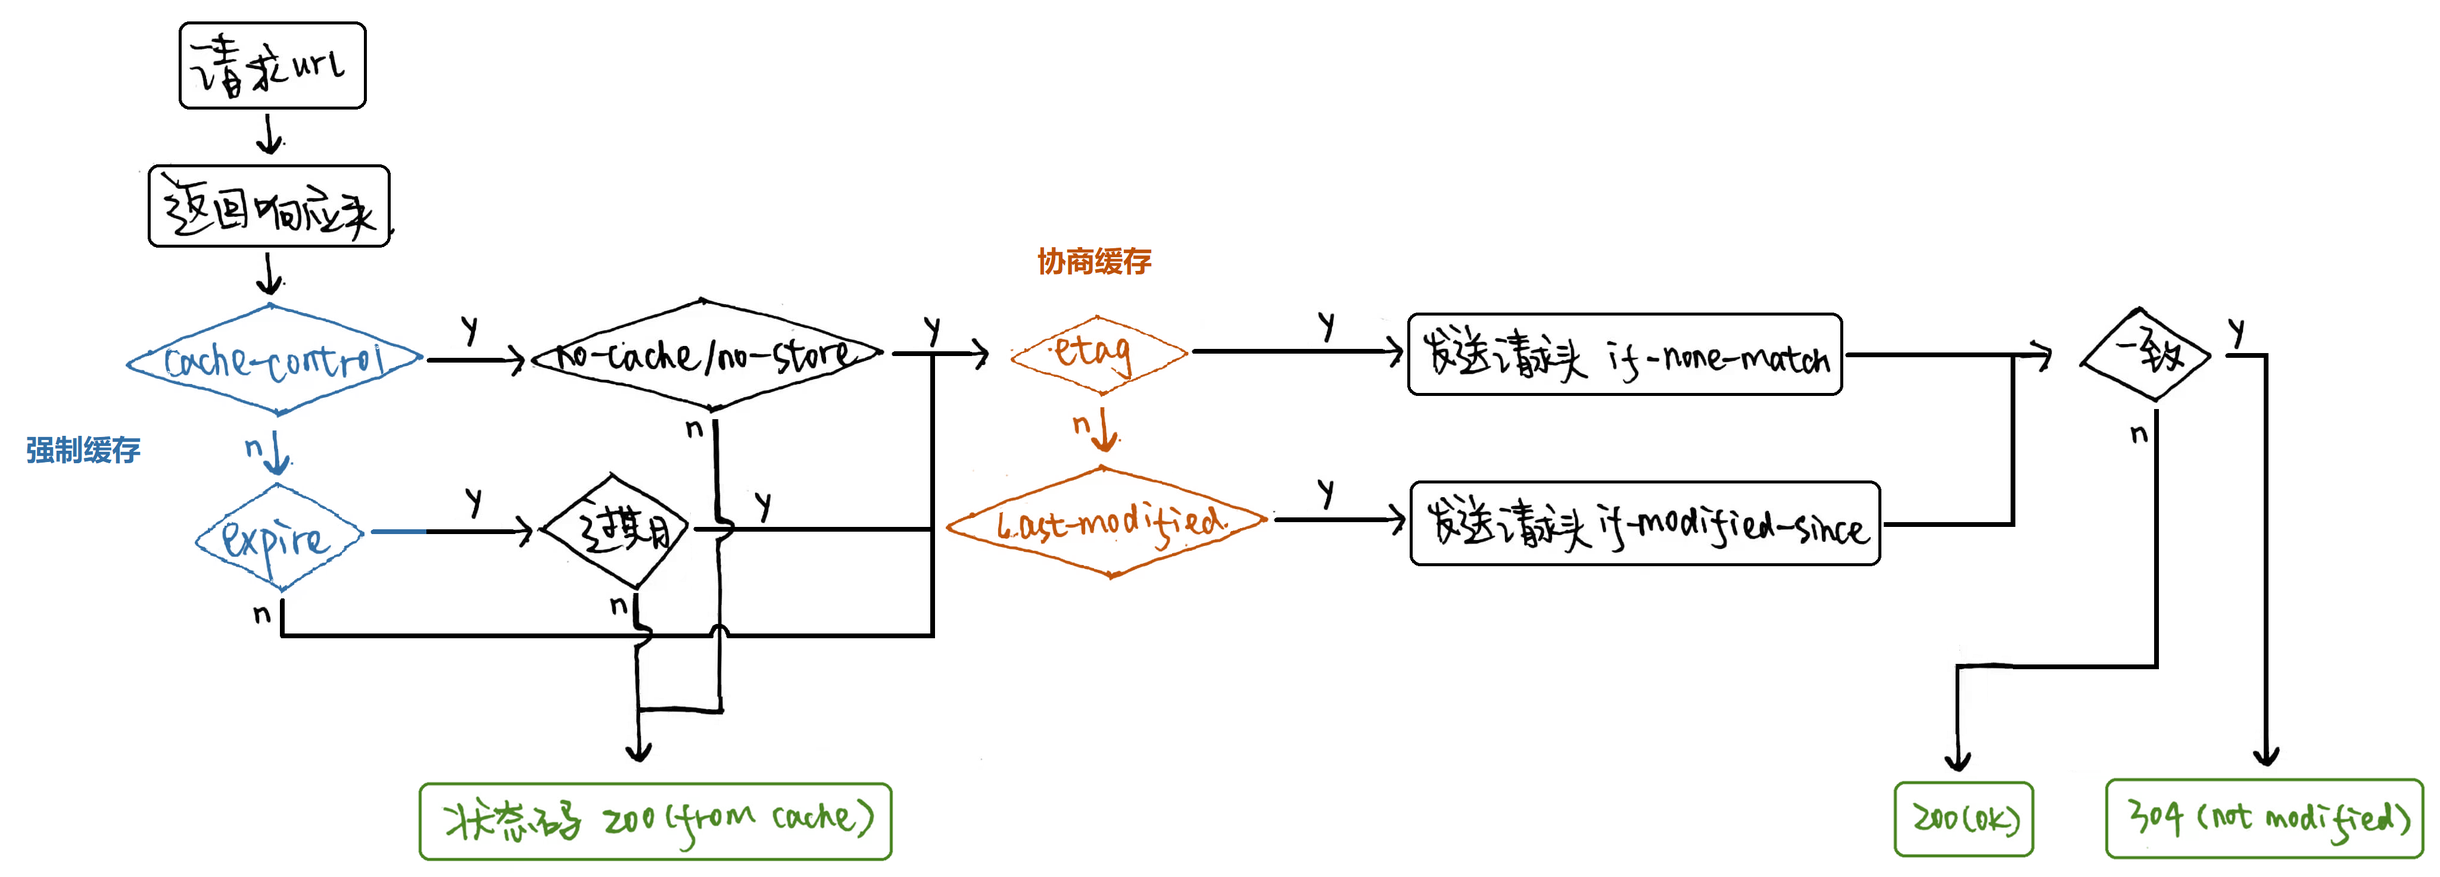
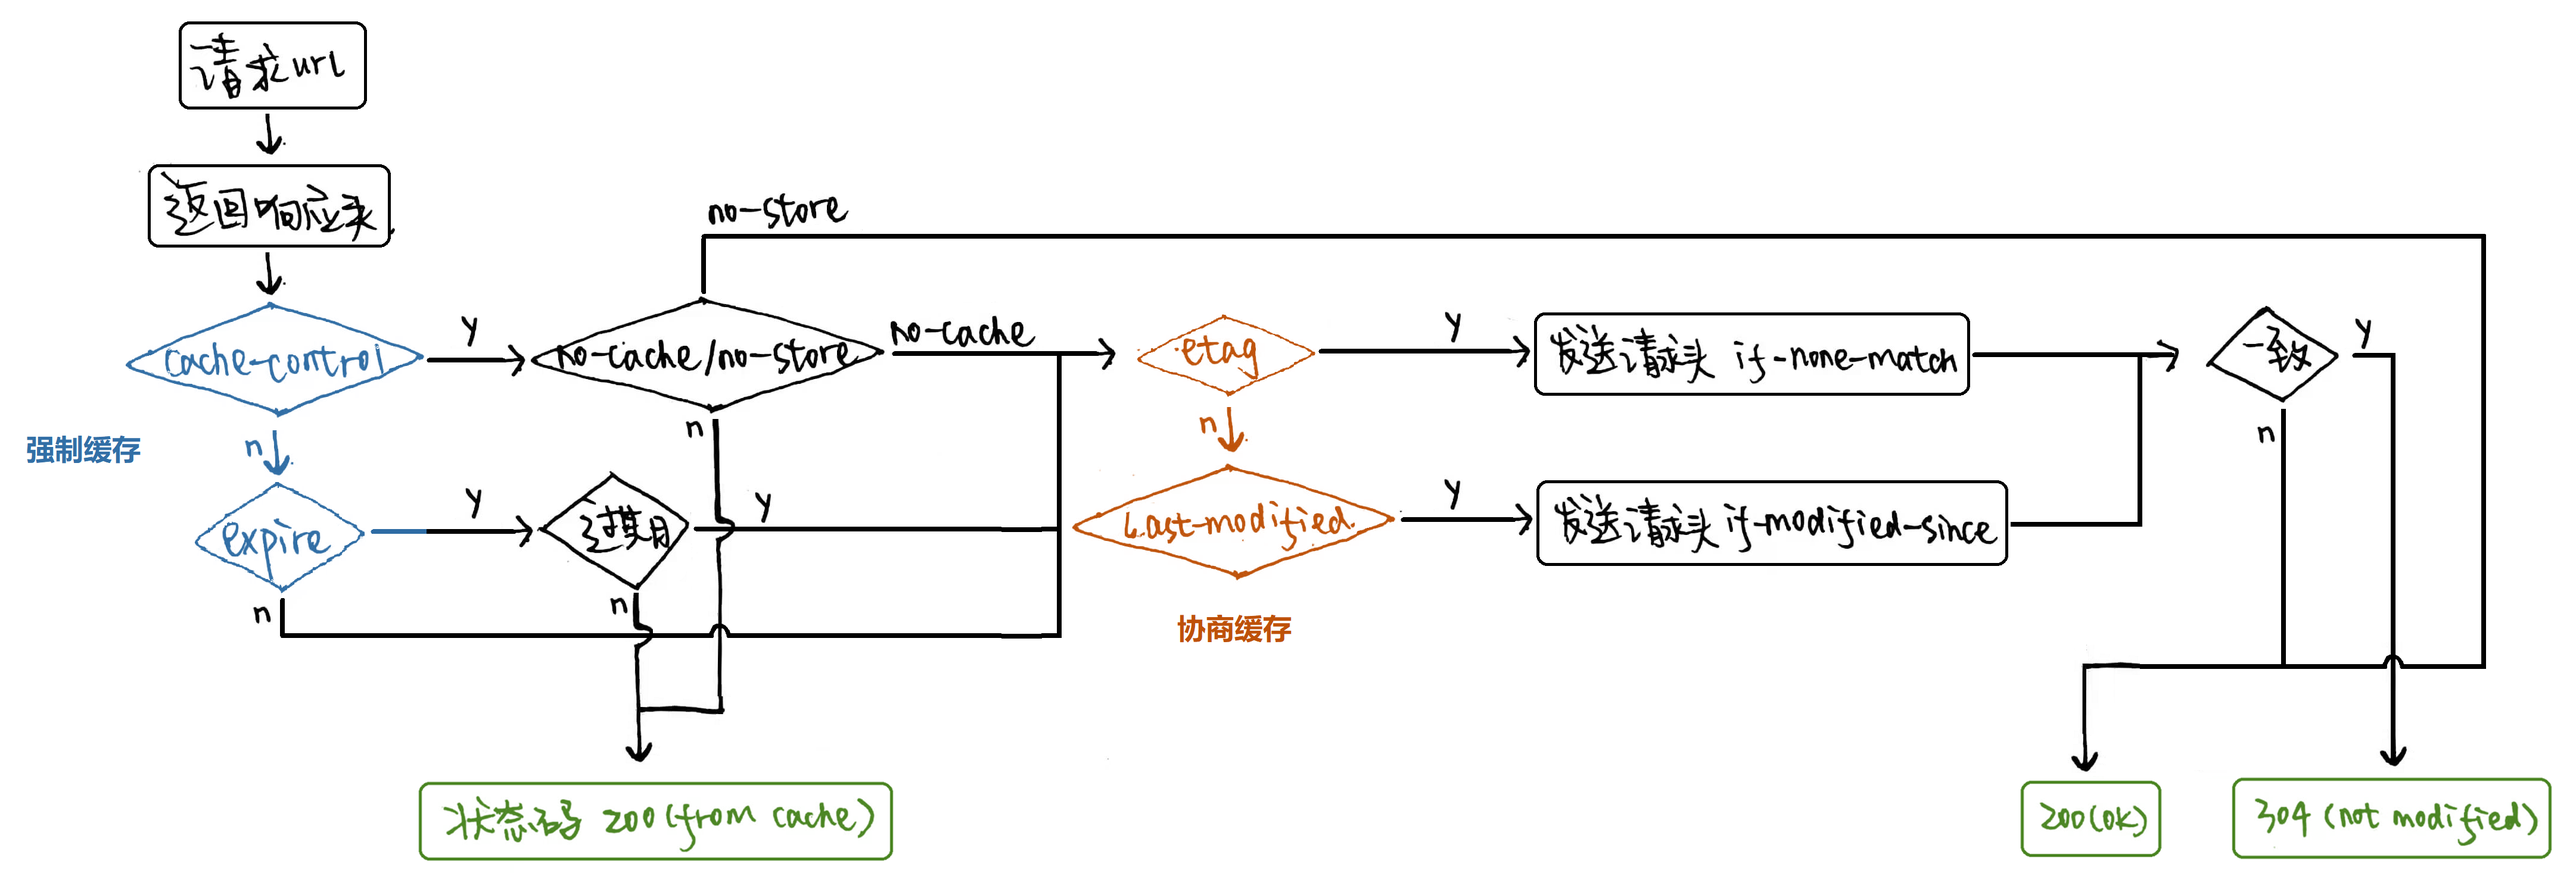
修改 - 浏览器 - 浏览器缓存

diff --git a/浏览器/浏览器缓存.md b/浏览器/浏览器缓存.md
@@ -155,6 +155,15 @@
 
 1. `Expires`
 2. `Cache-Control`
+> cache-control 主要有 max-age 和 s-maxage、public 和 private、no-cache 和 no-store 等值。  
+> - public 和 private(默认值)  
+> public 表示该资源可以被客户端和代理服务器缓存，而 private 表示该资源仅能被客户端缓存。  
+> - max-age 和 s-maxage  
+> 是一个数字，表示资源过了多少秒之后变为无效。  
+> 在浏览器中，max-age 和 s-maxage 都起作用，s-maxage 优先级高于 max-age。在代理服务器中，只有 s-maxage 起作用。  
+> 当设置了 s-maxage 的时候表示允许代理服务器缓存，相当于 public。  
+> - no-cache 和 no-store  
+> no-cache 协商缓存。no-store 不进行强制缓存/协商缓存，直接向服务器请求最新资源。当 no-cache 和 no-store 存在时会直接忽略 max-age 等。  
 
 * **两者对比**：
 
@@ -223,7 +232,8 @@
 
 > [返回目录](#chapter-one)
 
-* [x] [强缓存和协商缓存*](https://www.jianshu.com/p/fb59c770160c)
+* [x] [强缓存和协商缓存——简书](https://www.jianshu.com/p/fb59c770160c)  
+* [x] [可能是最被误用的 HTTP 响应头之一 Cache-Control: must-revalidate——知乎] (https://zhuanlan.zhihu.com/p/60357719)
 * [x] [深入理解浏览器的缓存机制](https://www.jianshu.com/p/54cc04190252)【阅读建议：1h】
 * [x] [浏览器缓存](https://github.com/xiangxingchen/blog/issues/9)【阅读建议：30min】
 * [x] [前端必须要懂的浏览器缓存机制](https://juejin.im/entry/6844903599537930253)【阅读建议：10min】
